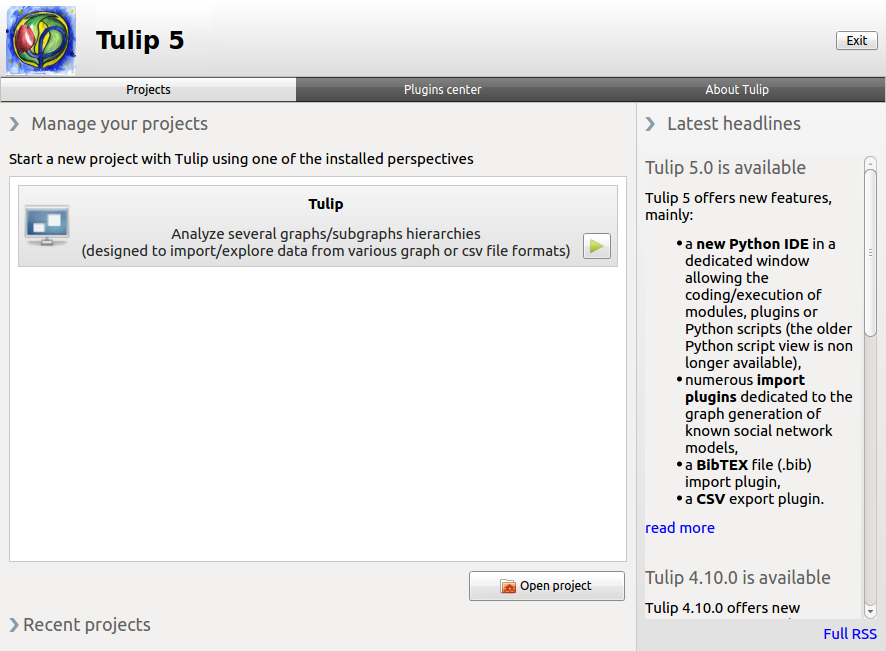
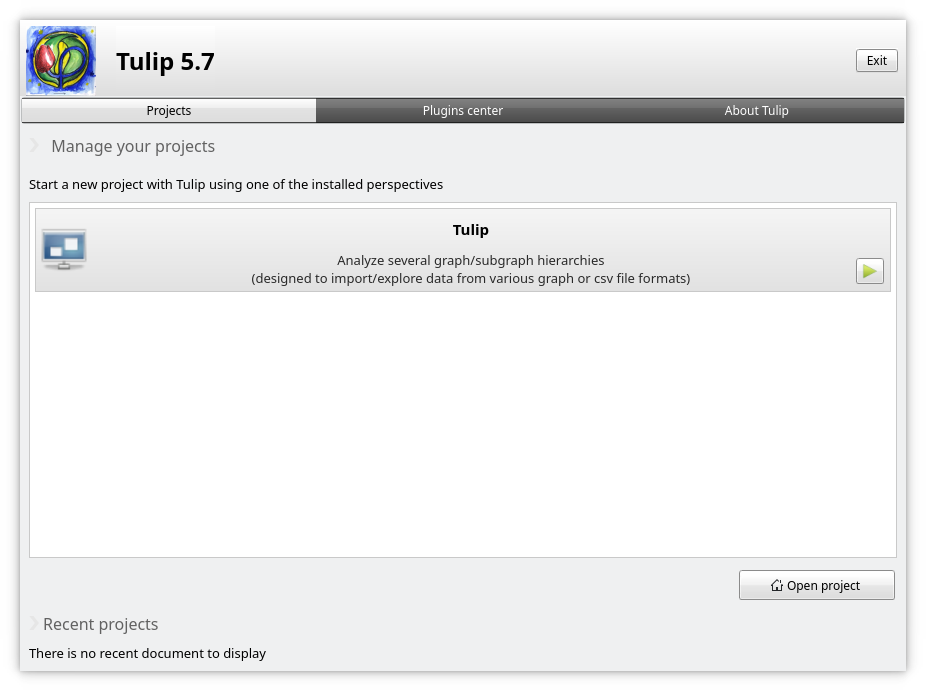
Fix English and update image with current version of Tulip

diff --git a/plugins/perspective/GraphPerspective/include/GraphPerspective.h b/plugins/perspective/GraphPerspective/include/GraphPerspective.h
@@ -70,7 +70,7 @@ public:
   GraphPerspectiveLogger *_logger;
 
   PLUGININFORMATION("Tulip", "Tulip Team", "2011/07/11",
-                    "Analyze several graphs/subgraphs hierarchies\n(designed to import/explore "
+                    "Analyze several graph/subgraph hierarchies\n(designed to import/explore "
                     "data from various graph or csv file formats)",
                     "1.0", "")
   std::string icon() const override {
